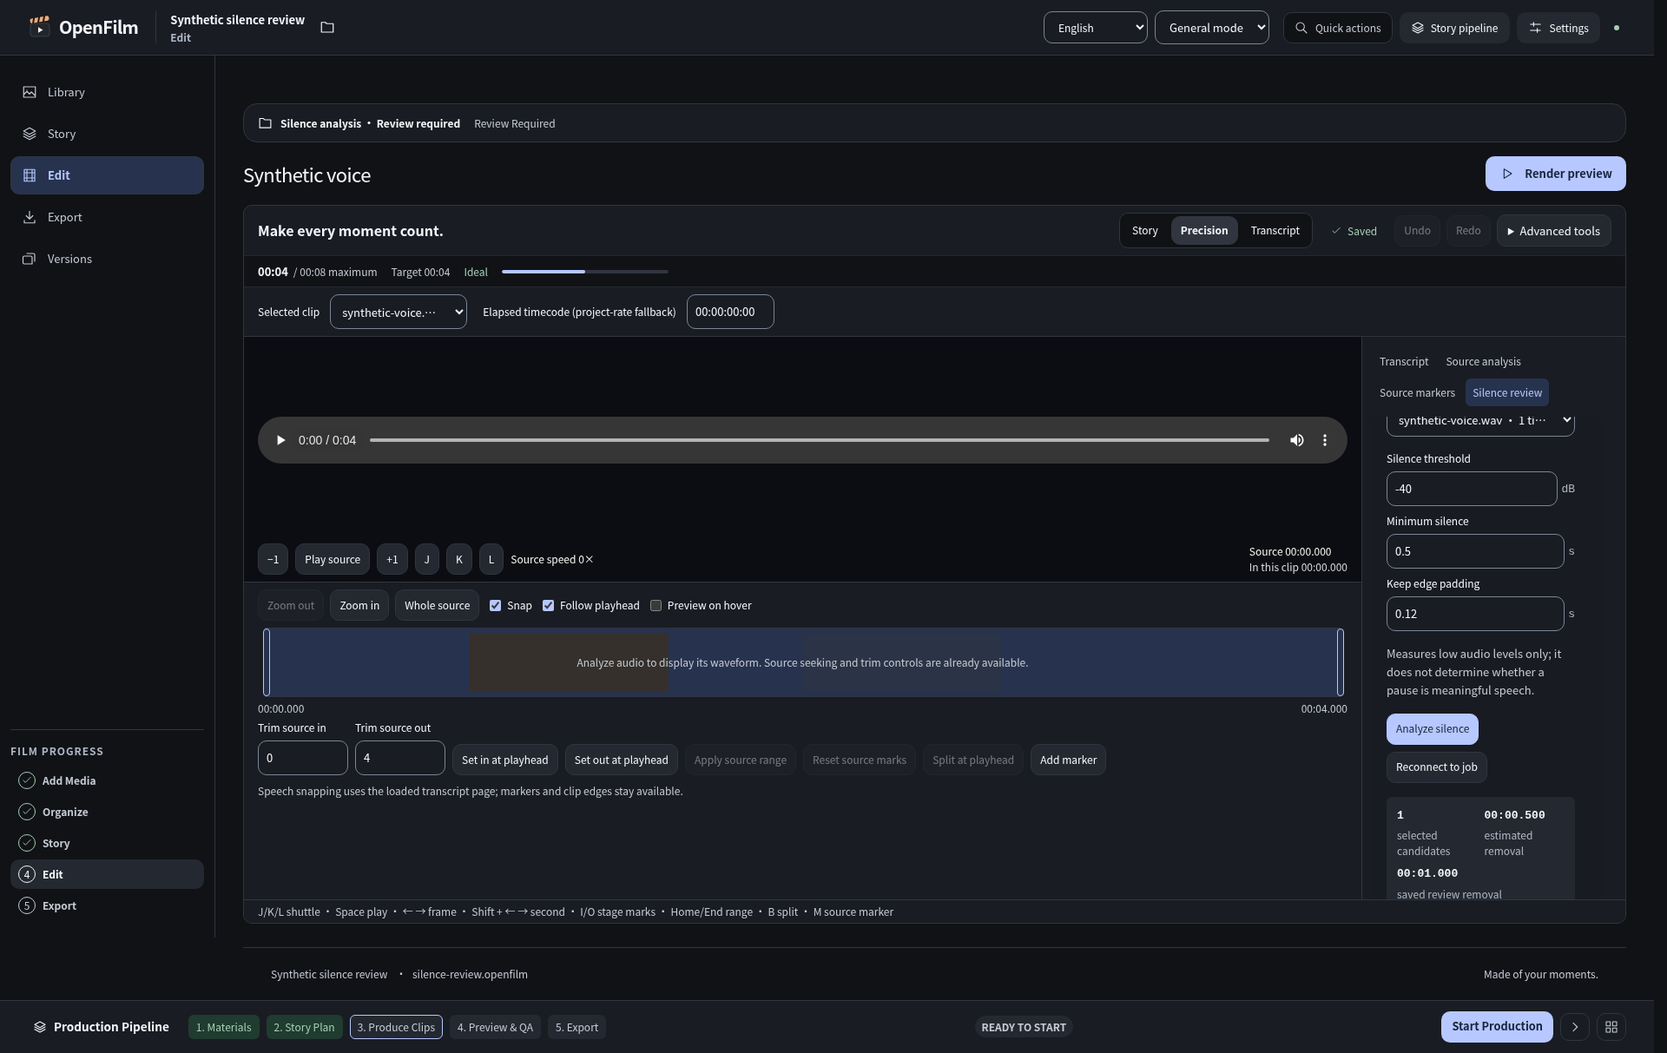
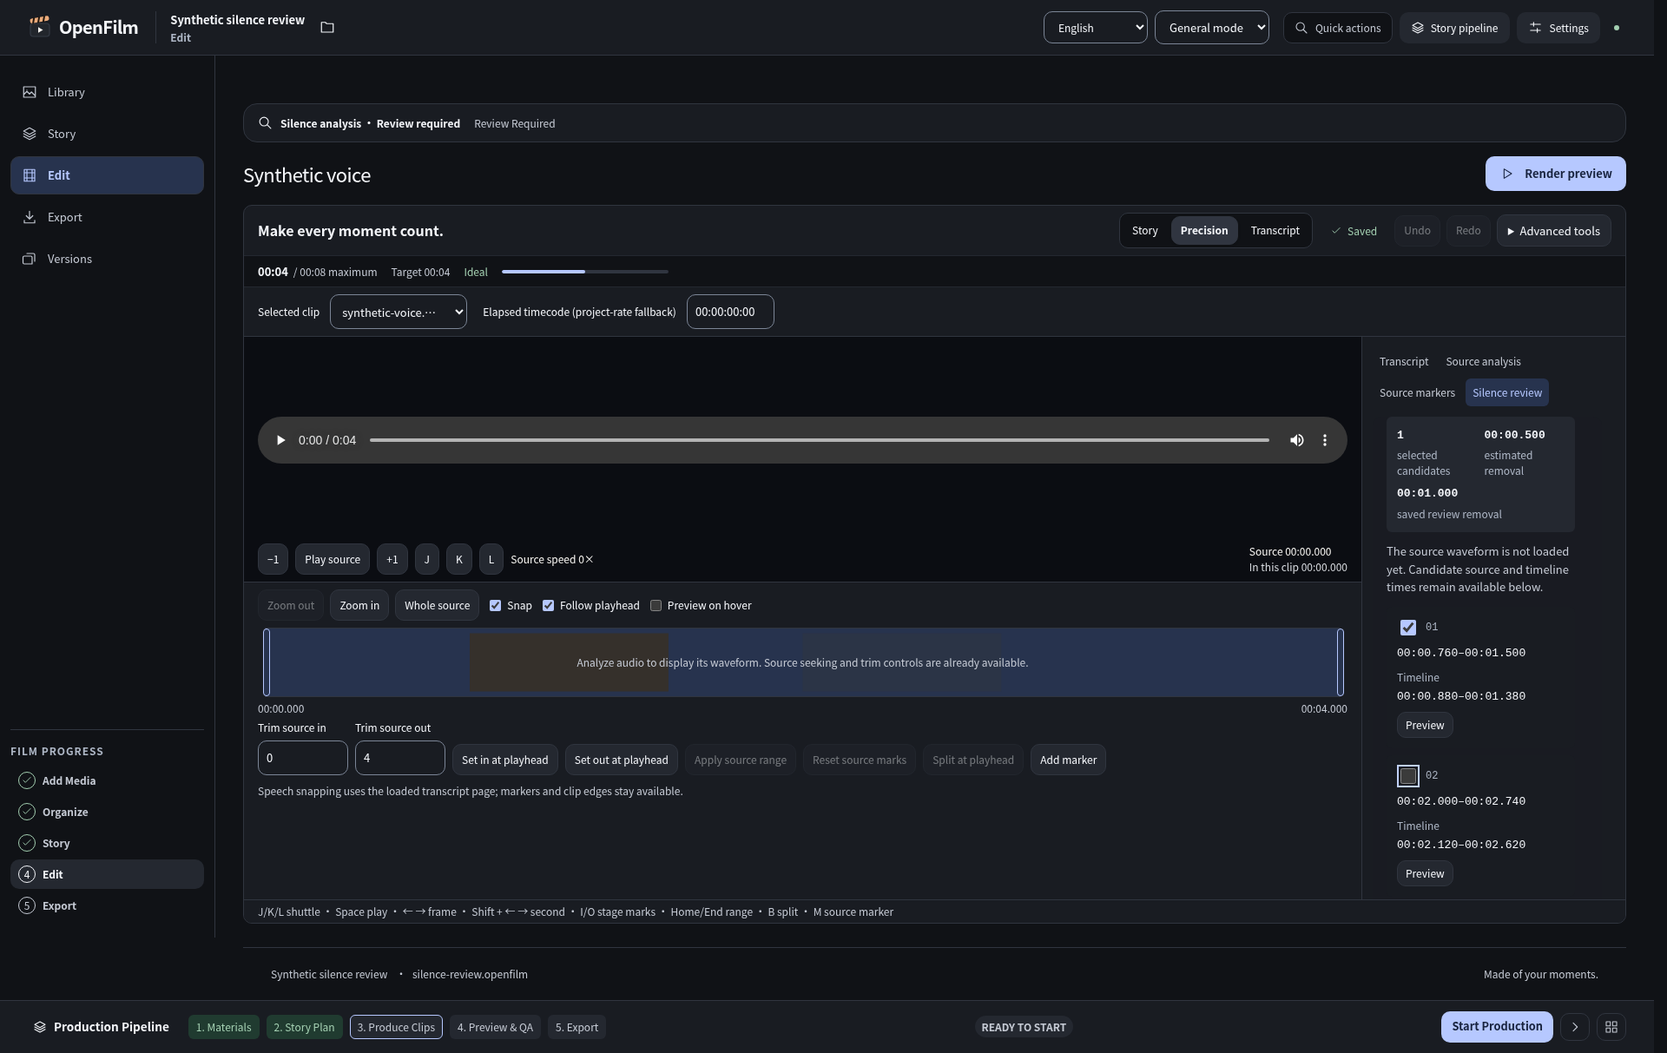
fix(desktop): preserve Precision viewport layout

Changed region(s): [[0.8125, 0.3965, 0.9375, 0.8541]]

diff --git a/apps/desktop/src/components/SilenceReviewPanel.vue b/apps/desktop/src/components/SilenceReviewPanel.vue
@@ -1247,6 +1247,16 @@ onBeforeUnmount(() => {
   .silence-heading {
     flex-wrap: wrap;
   }
+  .silence-candidate-map {
+    padding-inline-start: 0;
+  }
+  .silence-candidate-map > span:first-child {
+    min-width: 0;
+  }
+  .silence-timecode {
+    white-space: normal;
+    overflow-wrap: anywhere;
+  }
   .silence-options {
     grid-template-columns: 1fr;
   }

diff --git a/apps/desktop/src/editor.css b/apps/desktop/src/editor.css
@@ -2561,7 +2561,7 @@ button.editor-beat-heading:hover {
   }
 }
 
-@media (max-width: 1100px) {
+@media (max-width: 900px) {
   .precision-editor {
     height: auto;
   }

diff --git a/docs/en/validation-silence-review-ui.md b/docs/en/validation-silence-review-ui.md
@@ -68,27 +68,30 @@ editor and workspace chrome):
 - [Silence Review at 1024 × 768](/screenshots/silence-review-1024x768.png)
 - [Silence Review at 1920 × 1080](/screenshots/silence-review-1920x1080.png)
 
-At a 1024-pixel viewport the Precision layout stacks the preview, waveform and
-Review panel so numeric controls and candidate timecodes remain readable. At a
-wide viewport the panel stays beside the source monitor; narrow panel contents
-use a container-aware single-column settings layout.
+At 1024 × 768, the existing Precision monitor and inspector remain side by
+side so the Inspector tabs stay in the editing viewport. Container-aware rules
+stack settings and wrap candidate timecodes inside the narrow inspector. At
+900 pixels and below, the workspace stacks the monitor, waveform and panel.
+The 1920 × 1080 layout keeps the Review panel beside the source monitor.
 
 ## Automated evidence
 
-| Command                                                             | Result                                                                                                                                                                                                               |
-| ------------------------------------------------------------------- | -------------------------------------------------------------------------------------------------------------------------------------------------------------------------------------------------------------------- |
-| `pnpm format:check`                                                 | Passed.                                                                                                                                                                                                              |
-| `pnpm lint`                                                         | Passed.                                                                                                                                                                                                              |
-| `pnpm typecheck`                                                    | Passed.                                                                                                                                                                                                              |
-| `pnpm build`                                                        | Passed; Vite reports the existing large-chunk advisory.                                                                                                                                                              |
-| `pnpm test:i18n`                                                    | Passed; 3,089 semantic keys match across English, Traditional Chinese and Japanese.                                                                                                                                  |
-| `pnpm test:docs-i18n`                                               | Passed; 154 English documentation mirrors match.                                                                                                                                                                     |
-| Focused core/application/HTTP Vitest suites                         | Passed; 5 files, 76 tests.                                                                                                                                                                                           |
-| `packages/catalog/tests/analysis-ownership.test.ts`                 | Passed; 44 tests, including strict source/revision request identity.                                                                                                                                                 |
-| `pnpm exec playwright test tests/e2e/silence-review.spec.ts`        | Passed; 3 browser tests. Covers Analyze → Review → Accept → Undo → Redo → Save → Reopen, keyboard selection, modal focus/Escape, reduced motion, both viewport sizes, stale source, HTTP 409 and zh-TW/ja-JP labels. |
-| `pnpm test:browser-partition`                                       | Passed; 332 browser cases partitioned across four shards (83 / 86 / 80 / 83).                                                                                                                                        |
-| `npm --prefix docs run build`                                       | Passed; VitePress documentation site builds.                                                                                                                                                                         |
-| `OPENFILM_OTIO_PYTHON=/tmp/openfilm-otio-venv/bin/python pnpm test` | Passed; 442 files and 5,814 tests. The repository's pinned OpenTimelineIO virtual environment was used for NLE handoff coverage.                                                                                     |
+| Command                                                                                                                                                                    | Result                                                                                                                                                                                                               |
+| -------------------------------------------------------------------------------------------------------------------------------------------------------------------------- | -------------------------------------------------------------------------------------------------------------------------------------------------------------------------------------------------------------------- |
+| `pnpm format:check`                                                                                                                                                        | Passed.                                                                                                                                                                                                              |
+| `pnpm lint`                                                                                                                                                                | Passed.                                                                                                                                                                                                              |
+| `pnpm typecheck`                                                                                                                                                           | Passed.                                                                                                                                                                                                              |
+| `pnpm build`                                                                                                                                                               | Passed; Vite reports the existing large-chunk advisory.                                                                                                                                                              |
+| `pnpm test:i18n`                                                                                                                                                           | Passed; 3,089 semantic keys match across English, Traditional Chinese and Japanese.                                                                                                                                  |
+| `pnpm test:docs-i18n`                                                                                                                                                      | Passed; 154 English documentation mirrors match.                                                                                                                                                                     |
+| Focused core/application/HTTP Vitest suites                                                                                                                                | Passed; 5 files, 76 tests.                                                                                                                                                                                           |
+| `packages/catalog/tests/analysis-ownership.test.ts`                                                                                                                        | Passed; 44 tests, including strict source/revision request identity.                                                                                                                                                 |
+| `pnpm exec playwright test tests/e2e/silence-review.spec.ts`                                                                                                               | Passed; 3 browser tests. Covers Analyze → Review → Accept → Undo → Redo → Save → Reopen, keyboard selection, modal focus/Escape, reduced motion, both viewport sizes, stale source, HTTP 409 and zh-TW/ja-JP labels. |
+| `pnpm exec playwright test tests/e2e/precision-editing.spec.ts --grep "uses real source analysis, a disclosed protocol transcript, snapped trim and shared split history"` | Passed; 1 regression test confirms the Precision tabs remain in the viewport at all supported desktop sizes, including 1024 × 768.                                                                                   |
+| `pnpm exec playwright test tests/e2e/precision-editing.spec.ts --grep "precision smoke keeps source analysis and navigation localized at desktop sizes"`                   | Passed; Traditional Chinese and Japanese smoke tests at desktop sizes.                                                                                                                                               |
+| `pnpm test:browser-partition`                                                                                                                                              | Passed; 332 browser cases partitioned across four shards (83 / 86 / 80 / 83).                                                                                                                                        |
+| `npm --prefix docs run build`                                                                                                                                              | Passed; VitePress documentation site builds.                                                                                                                                                                         |
+| `OPENFILM_OTIO_PYTHON=/tmp/openfilm-otio-venv/bin/python pnpm test`                                                                                                        | Passed; 442 files and 5,814 tests. The repository's pinned OpenTimelineIO virtual environment was used for NLE handoff coverage.                                                                                     |
 
 The end-to-end fixture creates a deterministic WAV with two silent intervals,
 imports no personal material and uses the real server, SQLite catalog,

diff --git a/docs/validation-silence-review-ui.md b/docs/validation-silence-review-ui.md
@@ -68,27 +68,30 @@ editor and workspace chrome):
 - [Silence Review at 1024 × 768](/screenshots/silence-review-1024x768.png)
 - [Silence Review at 1920 × 1080](/screenshots/silence-review-1920x1080.png)
 
-At a 1024-pixel viewport the Precision layout stacks the preview, waveform and
-Review panel so numeric controls and candidate timecodes remain readable. At a
-wide viewport the panel stays beside the source monitor; narrow panel contents
-use a container-aware single-column settings layout.
+At 1024 × 768, the existing Precision monitor and inspector remain side by
+side so the Inspector tabs stay in the editing viewport. Container-aware rules
+stack settings and wrap candidate timecodes inside the narrow inspector. At
+900 pixels and below, the workspace stacks the monitor, waveform and panel.
+The 1920 × 1080 layout keeps the Review panel beside the source monitor.
 
 ## Automated evidence
 
-| Command                                                             | Result                                                                                                                                                                                                               |
-| ------------------------------------------------------------------- | -------------------------------------------------------------------------------------------------------------------------------------------------------------------------------------------------------------------- |
-| `pnpm format:check`                                                 | Passed.                                                                                                                                                                                                              |
-| `pnpm lint`                                                         | Passed.                                                                                                                                                                                                              |
-| `pnpm typecheck`                                                    | Passed.                                                                                                                                                                                                              |
-| `pnpm build`                                                        | Passed; Vite reports the existing large-chunk advisory.                                                                                                                                                              |
-| `pnpm test:i18n`                                                    | Passed; 3,089 semantic keys match across English, Traditional Chinese and Japanese.                                                                                                                                  |
-| `pnpm test:docs-i18n`                                               | Passed; 154 English documentation mirrors match.                                                                                                                                                                     |
-| Focused core/application/HTTP Vitest suites                         | Passed; 5 files, 76 tests.                                                                                                                                                                                           |
-| `packages/catalog/tests/analysis-ownership.test.ts`                 | Passed; 44 tests, including strict source/revision request identity.                                                                                                                                                 |
-| `pnpm exec playwright test tests/e2e/silence-review.spec.ts`        | Passed; 3 browser tests. Covers Analyze → Review → Accept → Undo → Redo → Save → Reopen, keyboard selection, modal focus/Escape, reduced motion, both viewport sizes, stale source, HTTP 409 and zh-TW/ja-JP labels. |
-| `pnpm test:browser-partition`                                       | Passed; 332 browser cases partitioned across four shards (83 / 86 / 80 / 83).                                                                                                                                        |
-| `npm --prefix docs run build`                                       | Passed; VitePress documentation site builds.                                                                                                                                                                         |
-| `OPENFILM_OTIO_PYTHON=/tmp/openfilm-otio-venv/bin/python pnpm test` | Passed; 442 files and 5,814 tests. The repository's pinned OpenTimelineIO virtual environment was used for NLE handoff coverage.                                                                                     |
+| Command                                                                                                                                                                    | Result                                                                                                                                                                                                               |
+| -------------------------------------------------------------------------------------------------------------------------------------------------------------------------- | -------------------------------------------------------------------------------------------------------------------------------------------------------------------------------------------------------------------- |
+| `pnpm format:check`                                                                                                                                                        | Passed.                                                                                                                                                                                                              |
+| `pnpm lint`                                                                                                                                                                | Passed.                                                                                                                                                                                                              |
+| `pnpm typecheck`                                                                                                                                                           | Passed.                                                                                                                                                                                                              |
+| `pnpm build`                                                                                                                                                               | Passed; Vite reports the existing large-chunk advisory.                                                                                                                                                              |
+| `pnpm test:i18n`                                                                                                                                                           | Passed; 3,089 semantic keys match across English, Traditional Chinese and Japanese.                                                                                                                                  |
+| `pnpm test:docs-i18n`                                                                                                                                                      | Passed; 154 English documentation mirrors match.                                                                                                                                                                     |
+| Focused core/application/HTTP Vitest suites                                                                                                                                | Passed; 5 files, 76 tests.                                                                                                                                                                                           |
+| `packages/catalog/tests/analysis-ownership.test.ts`                                                                                                                        | Passed; 44 tests, including strict source/revision request identity.                                                                                                                                                 |
+| `pnpm exec playwright test tests/e2e/silence-review.spec.ts`                                                                                                               | Passed; 3 browser tests. Covers Analyze → Review → Accept → Undo → Redo → Save → Reopen, keyboard selection, modal focus/Escape, reduced motion, both viewport sizes, stale source, HTTP 409 and zh-TW/ja-JP labels. |
+| `pnpm exec playwright test tests/e2e/precision-editing.spec.ts --grep "uses real source analysis, a disclosed protocol transcript, snapped trim and shared split history"` | Passed; 1 regression test confirms the Precision tabs remain in the viewport at all supported desktop sizes, including 1024 × 768.                                                                                   |
+| `pnpm exec playwright test tests/e2e/precision-editing.spec.ts --grep "precision smoke keeps source analysis and navigation localized at desktop sizes"`                   | Passed; Traditional Chinese and Japanese smoke tests at desktop sizes.                                                                                                                                               |
+| `pnpm test:browser-partition`                                                                                                                                              | Passed; 332 browser cases partitioned across four shards (83 / 86 / 80 / 83).                                                                                                                                        |
+| `npm --prefix docs run build`                                                                                                                                              | Passed; VitePress documentation site builds.                                                                                                                                                                         |
+| `OPENFILM_OTIO_PYTHON=/tmp/openfilm-otio-venv/bin/python pnpm test`                                                                                                        | Passed; 442 files and 5,814 tests. The repository's pinned OpenTimelineIO virtual environment was used for NLE handoff coverage.                                                                                     |
 
 The end-to-end fixture creates a deterministic WAV with two silent intervals,
 imports no personal material and uses the real server, SQLite catalog,
